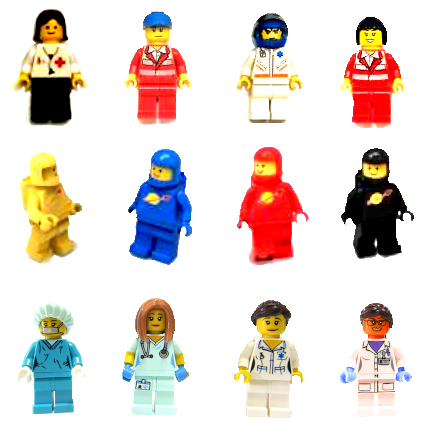
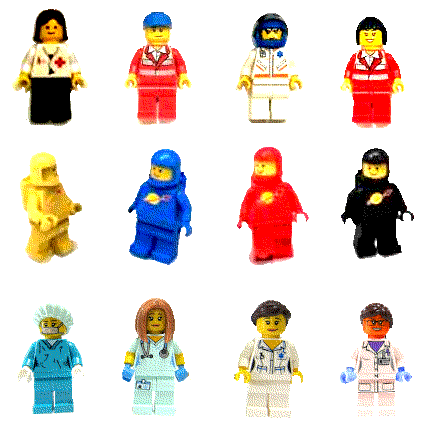
optimized for load time
reduced image size
loading steps optimized

diff --git a/index.html b/index.html
@@ -46,6 +46,9 @@ input, select {
     border-radius: 10px;;
     width:150px;
 }
+.slides {
+    display:none;
+}
 .btn {
     margin-top:10px;
     padding: 50px 80px 0px 80px;
@@ -115,6 +118,8 @@ input, select {
     width:640px;
     margin: 0 auto;
 }
+
+
 @media (min-height: 400px) {
     #list {
         width:440px;
@@ -129,6 +134,9 @@ input, select {
         -moz-transform: scale (1);
         -ms-transform: scale (1);
         transform: scale(1);
+    }
+    #shield_info {
+        font-size: 20pt !important;
     }
     #entryform {
         height: auto;
@@ -193,18 +201,21 @@ input, select {
 #intro {
     background-color: #000000;
     background-image: url('res/intro.png');
+    background-size: 640px 480px;
     background-repeat: no-repeat;
     background-position: center;
 }
 #intromsg {
-    position:fixed;
+    position:absolute;
     left: 50%;
-    padding-top: 160px;
+    top: 50%;
+    margin-top: 70px;
     margin-left: -210px;
     opacity: 0.5;
     font-size: 24px;
     font-family: Arial, Helvetica, sans-serif;
     color:white;
+    display:none;
 }
 #splash {
     background-color: #000000;
@@ -478,7 +489,7 @@ input, select {
                         onmouseover="newInfo('covered coughing or sneezing')"></div>
                     <div class="col shield shield2" onmouseout="newInfo()" onmouseover="newInfo('avoid handshake')"></div>
                     <div class="col shield shield3" onmouseout="newInfo()" onmouseover="newInfo('clean regular use items')"></div>
-                    <div class="col shield shield4" onmouseout="newInfo()" onmouseover="newInfo('stay at home, be safe when outside')"></div>
+                    <div class="col shield shield4" onmouseout="newInfo()" onmouseover="newInfo('stay at home, be safe outside')"></div>
                     <div class="col shield shield5" onmouseout="newInfo()" onmouseover="newInfo('regular physical exercise')"></div>
                     <div class="col shield shield6" onmouseout="newInfo()" onmouseover="newInfo('get covid vaccine')"></div>
                     <div class="col shield shield12" onmouseout="newInfo()" onmouseover="newInfo('let\'s beat covid'); fxplay('ok2');"

diff --git a/main.js b/main.js
@@ -1475,6 +1475,8 @@ var idBgMusic=0;
 var started = false;
 function startToPlay()
 {
+    if (!introMsgDiv)
+        return;
     if (started)
         return;
     toggleFullScreen();
@@ -1483,7 +1485,7 @@ function startToPlay()
         clearInterval(introTimerID);
     introTimerID = 0;
     introMsgDiv.innerHTML = '<i>p r e s e n t s</i>';
-    introMsgDiv.style.top =  "48%";
+    introMsgDiv.style.marginTop =  "150px";
     introMsgDiv.style.marginLeft =  "-76px";
     introMsgDiv.style.opacity = 1.0;
 
@@ -1519,8 +1521,7 @@ function startToPlay()
     }, 3000);
  }
 
-
- function init()  {
+function initATCG()  {
     mySlider = slider('.slides');
     barCounter = quizTimeoutInSeconds?quizTimeoutInSeconds:30; 
     urls = [];
@@ -1541,11 +1542,17 @@ function startToPlay()
     div.appendChild(app.view);
     app.stage.addChild(container);  
     window.onresize = resize;    
-    showSlide('#intro');
     resize();
-    introMsgDiv = document.getElementById('intromsg');
-    introTimerID = setInterval(introMsg, 200);
+    showSlide('#intro');
+    setTimeout(function() {
+        introMsgDiv = document.getElementById('intromsg');
+        if (introMsgDiv)
+        {
+            introMsgDiv.style.display='block';
+            introTimerID = setInterval(introMsg, 200);
+        }    
+    }, 3000);
 }
 
 document.oncontextmenu = new Function("return false;");
-document.onload = init();
+document.onload = initATCG();
